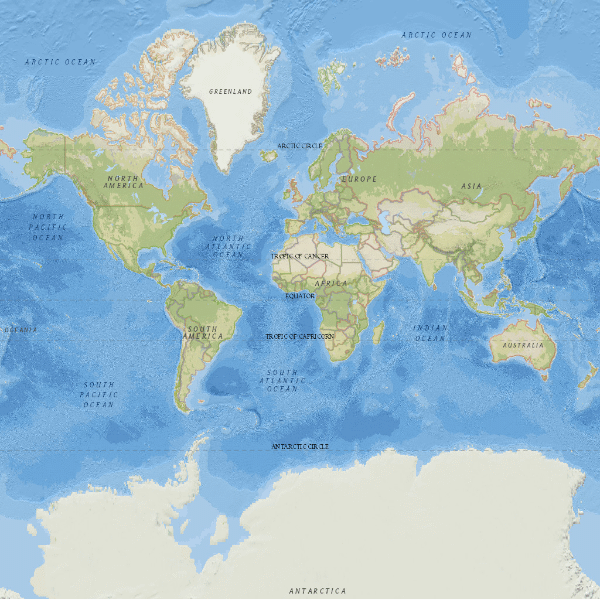
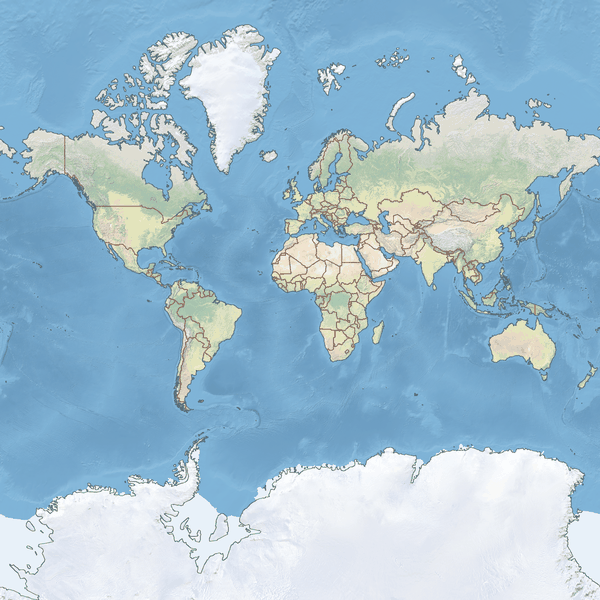
Rebuild the static map background from Natural Earth data
img/world-map-600.png was stitched from Esri NatGeo tiles, which the MIT
license cannot cover. scripts/make_world_map.py rebuilds it in the same
600x600 Web Mercator layout from public-domain Natural Earth data.
Also drop the unused QRZ map screenshot.

diff --git a/scripts/make_world_map.py b/scripts/make_world_map.py
@@ -1,0 +1,81 @@
+"""
+Build img/world-map-600.png, the base planisphere used by make_background.php,
+from public-domain Natural Earth data (https://www.naturalearthdata.com/).
+
+Output: 600x600 px, Web Mercator (+/-85.05 deg), centred on Greenwich, the
+projection map-ssb-qrz.php and map-ssb-github.php draw on.
+
+Inputs (download and unzip first):
+  NE1_50M_SR_W.tif   https://naciscdn.org/naturalearth/50m/raster/NE1_50M_SR_W.zip
+  ne_50m_coastline.geojson, ne_50m_admin_0_boundary_lines_land.geojson
+                     https://github.com/nvkelso/natural-earth-vector/tree/master/geojson
+
+Usage (Python 3 with Pillow and NumPy; a dev tool, not needed on the hosting):
+  python3 scripts/make_world_map.py NE1_50M_SR_W.tif ne_50m_coastline.geojson \
+      ne_50m_admin_0_boundary_lines_land.geojson img/world-map-600.png
+"""
+
+import json
+import sys
+
+import numpy as np
+from PIL import Image, ImageDraw
+
+SIZE = 600
+SCALE = 4  # draw at 4x and downsample, for smooth edges and thin lines
+COASTLINE = (90, 110, 120)
+BORDERS = (150, 110, 90)
+
+
+def project(lon, lat, size):
+    """Longitude/latitude (degrees) to Web Mercator pixel coordinates."""
+    lat = np.clip(lat, -85.0511287798, 85.0511287798)
+    x = (np.asarray(lon) + 180.0) / 360.0 * size
+    y = (0.5 - np.log(np.tan(np.pi / 4 + np.radians(lat) / 2)) / (2 * np.pi)) * size
+    return x, y
+
+
+def reproject(source, size):
+    """Resample an equirectangular world raster into a Web Mercator square."""
+    pixels = np.asarray(source.convert('RGB'))
+    height, width = pixels.shape[:2]
+    lon = (np.arange(size) + 0.5) / size * 360.0 - 180.0
+    lat = np.degrees(np.arctan(np.sinh(np.pi * (1 - 2 * (np.arange(size) + 0.5) / size))))
+    cols = np.clip(((lon + 180.0) / 360.0 * width).astype(int), 0, width - 1)
+    rows = np.clip(((90.0 - lat) / 180.0 * height).astype(int), 0, height - 1)
+    return Image.fromarray(pixels[rows[:, None], cols[None, :]])
+
+
+def draw_lines(image, geojson_path, color, width):
+    """Draw every LineString of a GeoJSON file, split where it wraps the antimeridian."""
+    draw = ImageDraw.Draw(image)
+    size = image.width
+    with open(geojson_path, encoding='utf-8') as file:
+        features = json.load(file)['features']
+    for feature in features:
+        geometry = feature['geometry']
+        lines = [geometry['coordinates']] if geometry['type'] == 'LineString' else geometry['coordinates']
+        for line in lines:
+            points = np.asarray(line, dtype=float)
+            x, y = project(points[:, 0], points[:, 1], size)
+            breaks = np.where(np.abs(np.diff(x)) > size / 2)[0] + 1
+            for part_x, part_y in zip(np.split(x, breaks), np.split(y, breaks)):
+                if len(part_x) > 1:
+                    draw.line(list(zip(part_x, part_y)), fill=color, width=width, joint='curve')
+
+
+def main():
+    if len(sys.argv) != 5:
+        sys.exit(__doc__)
+    raster_path, coastline_path, borders_path, output_path = sys.argv[1:]
+    Image.MAX_IMAGE_PIXELS = None  # the 50m raster is 10800x5400
+    image = reproject(Image.open(raster_path), SIZE * SCALE)
+    draw_lines(image, borders_path, BORDERS, SCALE)
+    draw_lines(image, coastline_path, COASTLINE, 3)
+    image = image.resize((SIZE, SIZE), Image.LANCZOS)
+    image.quantize(256, method=Image.Quantize.MEDIANCUT, dither=Image.Dither.NONE).save(output_path, optimize=True)
+    print('Saved ' + output_path)
+
+
+if __name__ == '__main__':
+    main()

diff --git a/README.md b/README.md
@@ -56,6 +56,7 @@ PHP 7.4+ (cURL, GD) · vanilla JavaScript · Leaflet 1.9 · Bash + Cron · Apach
 │   ├── build_cache.php                         Cache + grid lookups
 │   ├── make_background.php                     Static map background
 │   ├── update_dxcc.php                         Monthly DXCC list refresh
+│   ├── make_world_map.py                       Rebuilds img/world-map-600.png (dev tool)
 │   └── sync_daily.sh                           Cron entry point
 ├── data/                                       Generated files (not versioned)
 └── config.json.example                         Credentials template

diff --git a/CREDITS.md b/CREDITS.md
@@ -25,4 +25,4 @@ The current version is a rewrite: the viewer, Maidenhead conversions, great-circ
 ## Local data
 
 - `js/dxcc.js`: base DXCC entity catalog (code → name and flag, including deleted entities) used in the popups. New entities are added from `data/dxcc.json` (see AD1C above).
-- `img/world-map-600.png`: base world map for the static map.
+- `img/world-map-600.png`: base world map for the static map, built by `scripts/make_world_map.py` from [Natural Earth](https://www.naturalearthdata.com/) data (public domain): the *Natural Earth I with Shaded Relief and Water* 1:50m raster, coastlines and land boundaries. Made with Natural Earth.
